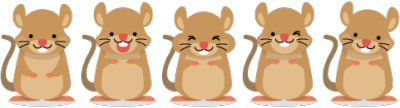
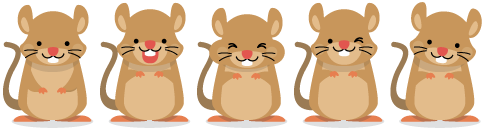
異常な画像を修正

diff --git a/try-paku/main.js b/try-paku/main.js
@@ -18,8 +18,8 @@ var ASSETS = {
   spritesheet: {
     rat_ss: {
       frame: {
-        width: 80,
-        height: 108,
+        width: 97,
+        height: 130,
         cols: 5,
         rows: 1,
       },
